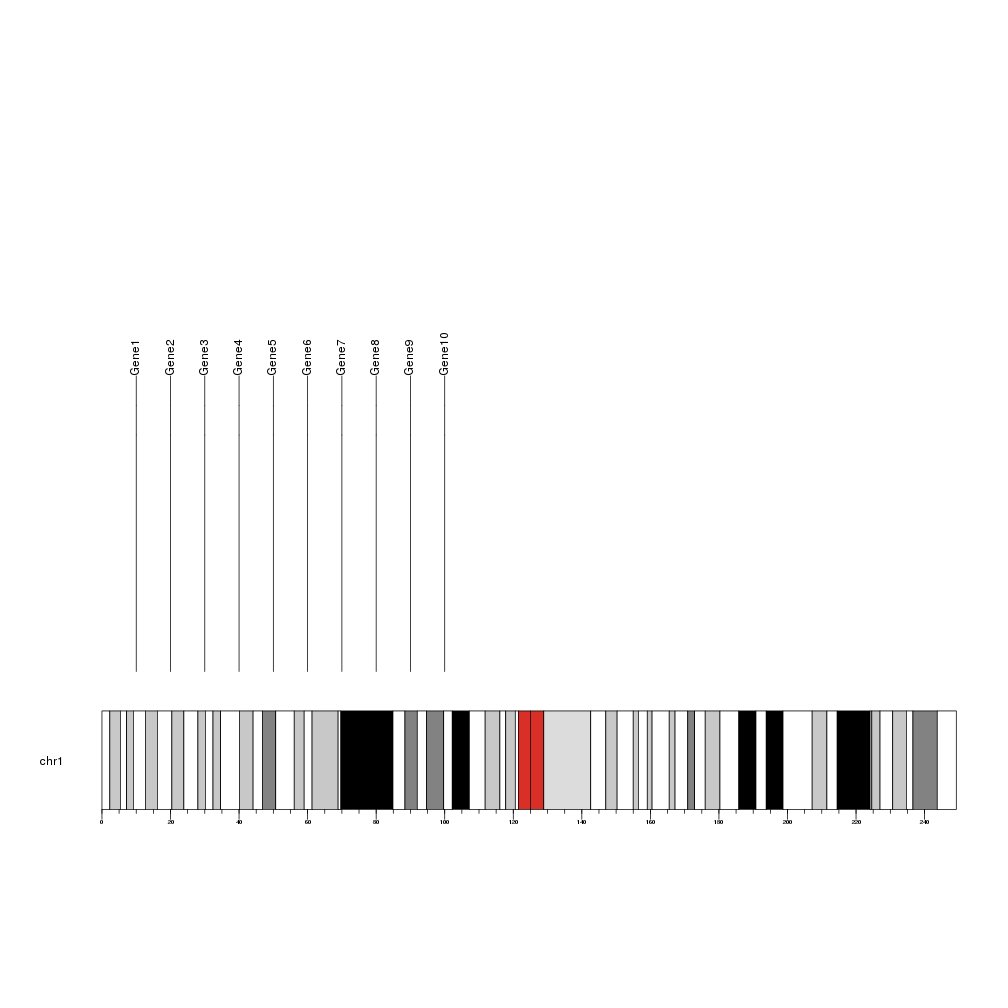
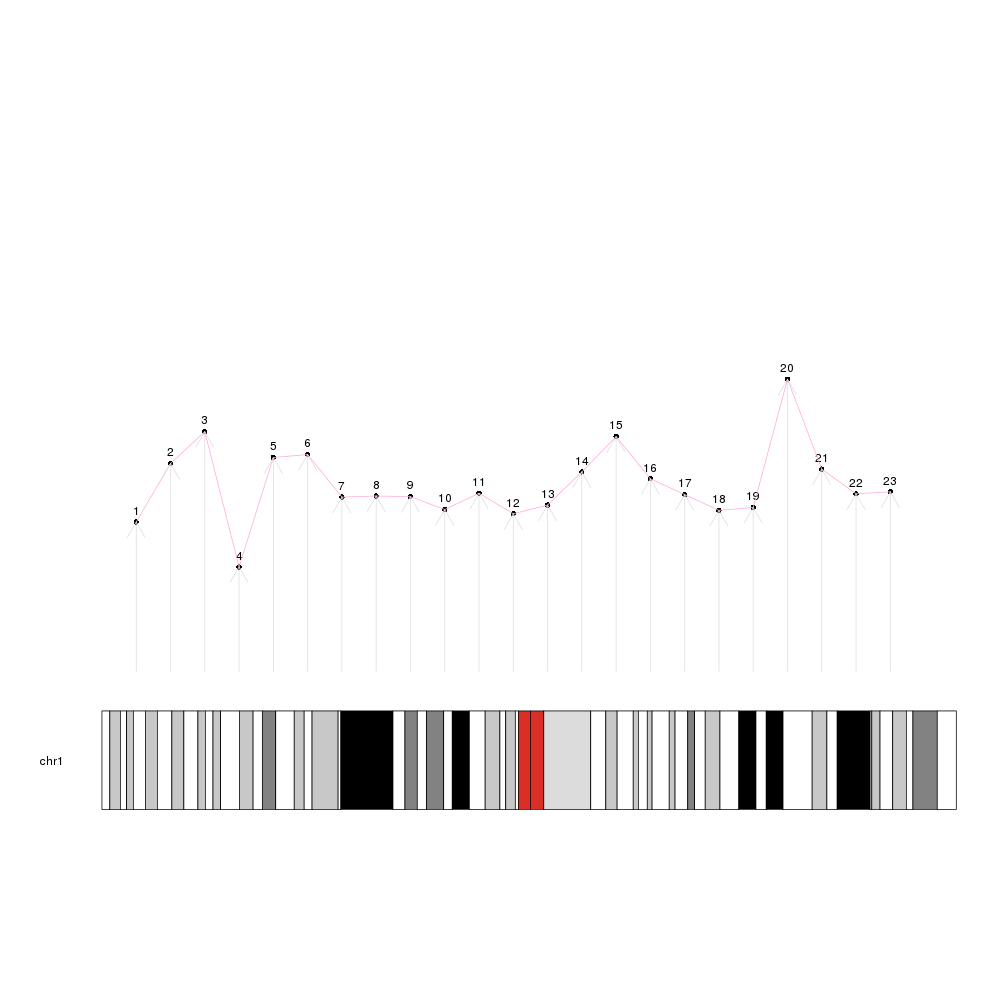
Added the overview of lov-level plotting functions

diff --git a/docs/Tutorial/OverviewPlottingFunctions/OverviewPlottingFunctions.md b/docs/Tutorial/OverviewPlottingFunctions/OverviewPlottingFunctions.md
@@ -1,73 +1,54 @@
 ---
 layout: tutorial
 label: OverviewPlottingFunctions
-title: Overview of Plotting Functions
+title: Overview of Low-level Plotting Functions
 ---
 
 
 
 
-## Plotting Genomic Markers
+## Low-level plotting functions
 
-The function **kpPlotMarkers** can be used to plot markers along the genome,
-that is, specific positions of the genome with a name: genes, snps, etc...
+Plotting functions in karyoploteR are divided in two groups: low- and high-level.
+Low level plotting functions are mainly chromosome-aware versions of the R base
+graphics primitives: points, lines, segments, polygons...
 
-We will create a set of example markers and plot them on the genome
+They all share the same naming scheme: _kpPrimitive_, that means, _kpPoints_ to 
+plot points, _kpLines_ to plot lines, _kpArrows_ for arrows, etc. All of them
+are customizable using the standrad R base [graphical parameters](https://www.rdocumentation.org/packages/graphics/versions/3.4.0/topics/par)
+and all of them share almost the same API.
 
+To use them, we first need to create a karyoplot with a call to _plotKaryotype_.
+After that, successive calls to the plotting functions will add new graphical 
+elements to the plot.
 
 
 ```r
 library(karyoploteR)
 
-markers <- data.frame(chr=rep("chr1", 10), pos=(1:10*10e6), labels=paste0("Gene", 1:10))
+x <- 1:23*10e6
+y <- rnorm(23, 0.5, 0.1)
 
 kp <- plotKaryotype(chromosomes="chr1")
-kpAddBaseNumbers(kp)
-kpPlotMarkers(kp, chr=markers$chr, x=markers$pos, labels=markers$labels)
+
+kpPoints(kp, chr = "chr1", x=x, y=y)
+kpText(kp, chr="chr1", x=x, y=y, labels=c(1:23), pos=3)
+kpLines(kp, chr="chr1", x=x, y=y, col="#FFAADD")
+
+kpArrows(kp, chr="chr1", x0=x, x1=x, y0=0, y1=y, col="#DDDDDD")
 ```
 
 ![plot of chunk Figure1](images//Figure1-1.png)
 
-If the positions are closer and the labels will overlap, they will be moved to
-avoid the overlapping as much as possible. If the label movement is not desired,
-it can be disabled setting **adjust.label.position=FALSE** .
+## Common parameters
 
+The low-level plotting functions can, again, be classified in two groups: those 
+that need a single point specified by x and y (such as points, lines, text...) 
+and those that need pair of points (x0, x1, y0, y1): segments, arrows, bars,
+polygons, etc. Some of the functions have special parameters, such as _labels_
+in _kpText_. In addition, all functions need a _chr_ parameter to fully specify
+the position of each data point and the _karyoplot_ object returned by _plotKaryotype_
+as the first parameter. 
 
-
-```r
-markers <- data.frame(chr=rep("chr1", 10), pos=(1:10*1e6), labels=paste0("Gene", 1:10))
-
-kp <- plotKaryotype(chromosomes="chr1")
-kpAddBaseNumbers(kp)
-kpPlotMarkers(kp, chr=markers$chr, x=markers$pos, labels=markers$labels)
-
-
-markers2 <- data.frame(chr=rep("chr1", 10), pos=140e6+(1:10*1e6), labels=paste0("OtherGene", 1:10))
-
-kpPlotMarkers(kp, chr=markers2$chr, x=markers2$pos, labels=markers2$labels, adjust.label.position=FALSE)
-```
-
-![plot of chunk Figure2](images//Figure2-1.png)
-
-The markers information can be passed as a set of parameters (chr, x, labels) or
-as a GenomicRanges object with a *labels* column.
-
-It is possible to customize the marker plotting in several ways. It is possible
-to specify a different color for the line and the label, to split the line 
-bending in different proportions, to adjust the text orientation and margins and
-in general to use most of the standard graphics parameters.
-
-
-```r
-markers <- data.frame(chr=rep("chr1", 10), pos=(1:10*1e6), labels=paste0("Gene", 1:10))
-
-kp <- plotKaryotype(chromosomes="chr1")
-kpAddBaseNumbers(kp)
-kpPlotMarkers(kp, chr=markers$chr, x=markers$pos, labels=markers$labels,
-              text.orientation = "horizontal", marker.parts = c(0, 0.9, 0.1),
-              line.color = "#FFAA22", label.color = "#22AAFF", 
-              label.dist = 0.01, max.iter = 1000)
-```
-
-![plot of chunk Figure3](images//Figure3-1.png)
-
+In addition to that, all functions accept a standard set of parameters to 
+further modify the data positioning. These parameters are explained in the next section.
